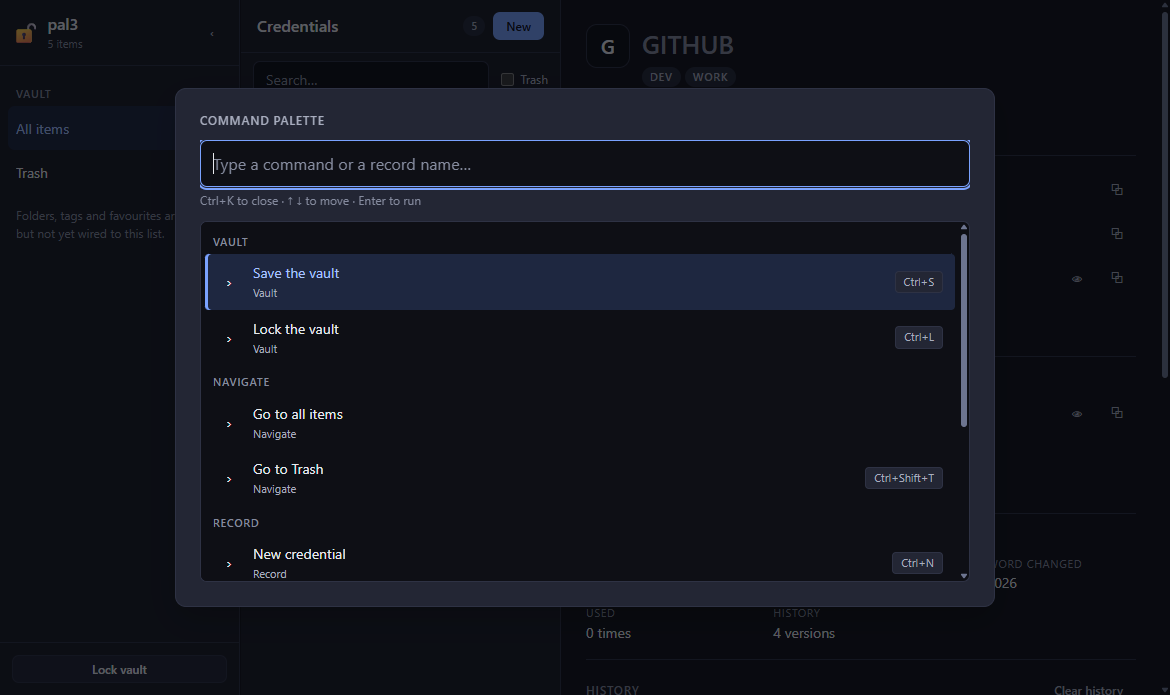
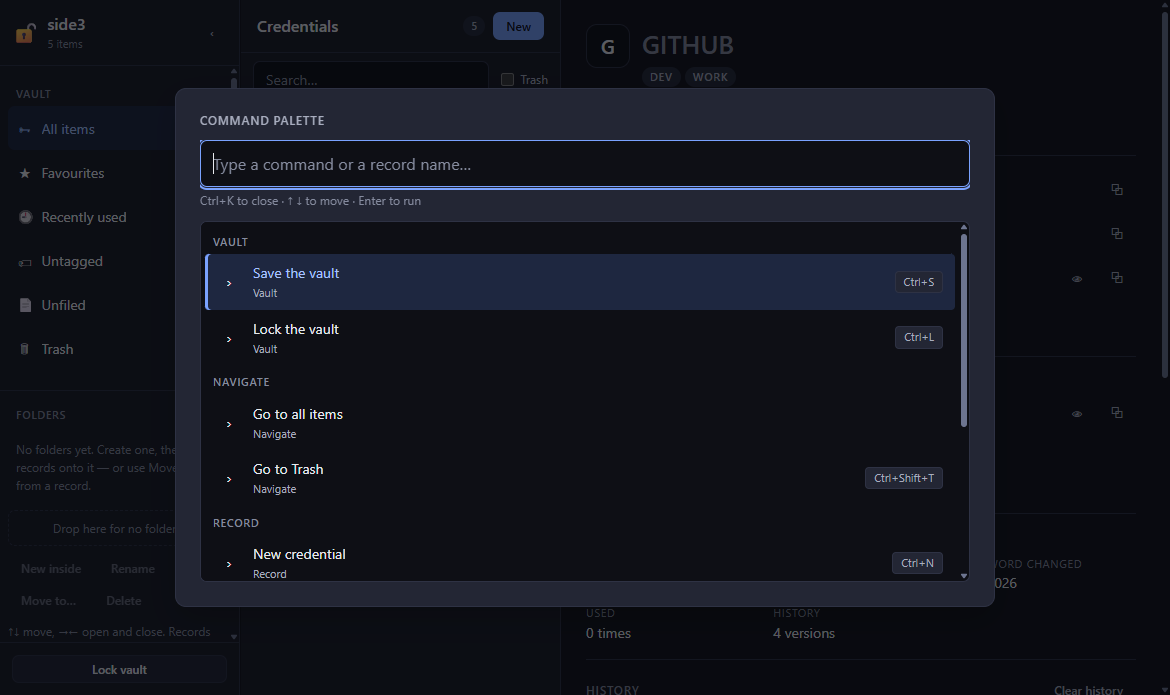
feat: mount the folder and tag sidebar, and fix an overlap the screenshot found
Replaces the placeholder nav that has been saying "folders and tags are built
but not wired" since Phase 7. Smart views, the folder tree and the tag filters
are live, with real counts, against the IPC that landed earlier today.

The sidebar owns no filtering of its own: it produces a `SidebarSelection` and
`visibleForSelection` turns that into a list through the shared search engine,
so there is still one matcher and one sort in the app.

**The layout bug is the part worth recording.** The screenshot showed the
keyboard hint drawn on top of the TAGS heading, and — once I had made it worse
with a wrong first guess — the empty-tree message, the action row and the drop
zone all drawn on top of each other. It looks like a positioning bug and is not:
a flex child defaults to `flex-shrink: 1`, so in a column shorter than its
contents every box is squeezed below its own content height and the content
paints outside it. The boxes do not move; what is inside them lands on the
neighbours.

`flex: none` on every direct child, and one scroll region for the sidebar rather
than three nested ones that could each cap themselves past the space available.

No test caught this and none realistically could — nothing asserts that two
elements do not overlap. Looking at the screenshot is the guard, which is why
the goal says to.

Claude-Session: https://claude.ai/code/session_01LkknY42itpGfhdCuAva45D

diff --git a/src/renderer/src/vault/VaultScreen.tsx b/src/renderer/src/vault/VaultScreen.tsx
@@ -1,6 +1,7 @@
 // SPDX-License-Identifier: GPL-3.0-or-later
 import { useEffect, useState, type ReactNode } from 'react';
 import { Button } from '../components/Button.js';
+import { OrganisationSidebar } from '../organisation/index.js';
 import { AppShell } from '../shell/AppShell.js';
 import { CredentialDetail, NoSelection } from './CredentialDetail.js';
 import { CredentialEditor } from './CredentialEditor.js';
@@ -23,7 +24,9 @@ export function VaultScreen({
   readonly appearancePanel: ReactNode;
 }): React.JSX.Element {
   const { status, credentials, lock } = useSession();
-  const { selectedId, editing, select, setShowTrash, showTrash } = useCredentials();
+  // `showTrash` moved to the sidebar with the rest of the view selection; this screen
+  // keeps only what it still owns.
+  const { selectedId, editing, select } = useCredentials();
   const [sidebarCollapsed, setSidebarCollapsed] = useState(false);
 
   const selected = credentials.find((credential) => credential.id === selectedId);
@@ -59,34 +62,13 @@ export function VaultScreen({
             </Button>
           </header>
 
-          <nav className="kh-sidebar__nav">
-            <div className="kh-sidebar__group">Vault</div>
-            <button
-              type="button"
-              className="kh-sidebar__item"
-              aria-current={!showTrash}
-              onClick={() => {
-                setShowTrash(false);
-              }}
-            >
-              <span>All items</span>
-              <span className="kh-sidebar__count">{vault?.recordCount ?? 0}</span>
-            </button>
-            <button
-              type="button"
-              className="kh-sidebar__item"
-              aria-current={showTrash}
-              onClick={() => {
-                setShowTrash(true);
-              }}
-            >
-              <span>Trash</span>
-              <span className="kh-sidebar__count">{vault?.trashedCount ?? 0}</span>
-            </button>
-            <p className="kh-sidebar__note">
-              Folders, tags and favourites are built but not yet wired to this list.
-            </p>
-          </nav>
+          {/*
+            The real sidebar, replacing the placeholder nav that used to live here.
+            It owns no filtering: it produces a `SidebarSelection`, and `visibleForSelection`
+            turns that into a list through the shared search engine — so there is still one
+            matcher and one sort in the app.
+          */}
+          <OrganisationSidebar />
 
           <div className="kh-sidebar__footer">
             <ClipboardIndicator />

diff --git a/src/renderer/src/organisation/organisation.css b/src/renderer/src/organisation/organisation.css
@@ -18,10 +18,46 @@
  * outline, and a broken folder carries a ⚠ glyph with a sentence in its tooltip.
  */
 
+/*
+ * Nothing in this sidebar shrinks below its own content.
+ *
+ * This is the actual fix for the overlap, and it is worth stating because the symptom looks
+ * like a positioning bug and is not. A flex child defaults to `flex-shrink: 1`: in a column
+ * shorter than its contents, every box is squeezed below its content height and the content
+ * paints outside it — so the boxes do not move, but what is *inside* them lands on top of
+ * the neighbours. The keyboard hint drew over the TAGS heading, and the empty-tree message,
+ * the action row and the drop zone all drew over each other.
+ *
+ * `flex: none` on every direct child says "take the height you need", and the container
+ * below scrolls instead. Found by looking at a screenshot; no test asserts that two elements
+ * do not overlap, and none realistically could.
+ */
+.kh-organisation > *,
+.kh-tree > *,
+.kh-tags > * {
+  flex: none;
+}
+
+/*
+ * One scroll region, not three.
+ *
+ * The tree and the tag list each used to cap themselves (40vh and 30vh) and scroll
+ * independently, inside a column that did not scroll at all. On a short window their caps
+ * plus their headers exceeded the space available and the sections drew over each other —
+ * the keyboard hint at the bottom of the tree landed on top of the TAGS heading. Found by
+ * looking at a screenshot; every test passed through it, because nothing asserts that two
+ * elements do not overlap.
+ *
+ * The whole sidebar scrolls now. `min-height: 0` is what lets a flex child actually shrink
+ * below its content, which is the part that is easy to leave out and hard to notice.
+ */
 .kh-organisation {
   display: flex;
   flex-direction: column;
+  flex: 1 1 auto;
   min-height: 0;
+  overflow-y: auto;
+  overscroll-behavior: contain;
   gap: var(--kh-space-2);
   padding-bottom: var(--kh-space-3);
 }
@@ -68,9 +104,6 @@
   display: flex;
   flex-direction: column;
   min-height: 0;
-  max-height: 40vh;
-  overflow-y: auto;
-  overscroll-behavior: contain;
 }
 
 /*
@@ -279,9 +312,6 @@
   margin: 0;
   padding: 0;
   list-style: none;
-  max-height: 30vh;
-  overflow-y: auto;
-  overscroll-behavior: contain;
 }
 
 .kh-tag-row {

diff --git a/src/main/smoke.ts b/src/main/smoke.ts
@@ -624,7 +624,10 @@ export function runSmokeCheck(window: BrowserWindow): void {
           true
         );
         await new Promise<void>((resolve) => setTimeout(resolve, 300));
-        const paletteOpen = await window.webContents.executeJavaScript(
+        // Typed, not inferred: `executeJavaScript` returns `any`, and letting that flow into
+        // a boolean check means the assertion below would pass on a string, a number, or an
+        // exception object — a guard that cannot fail.
+        const paletteOpen: unknown = await window.webContents.executeJavaScript(
           `document.querySelector('[role="combobox"], .kh-palette') !== null`,
           true
         );
